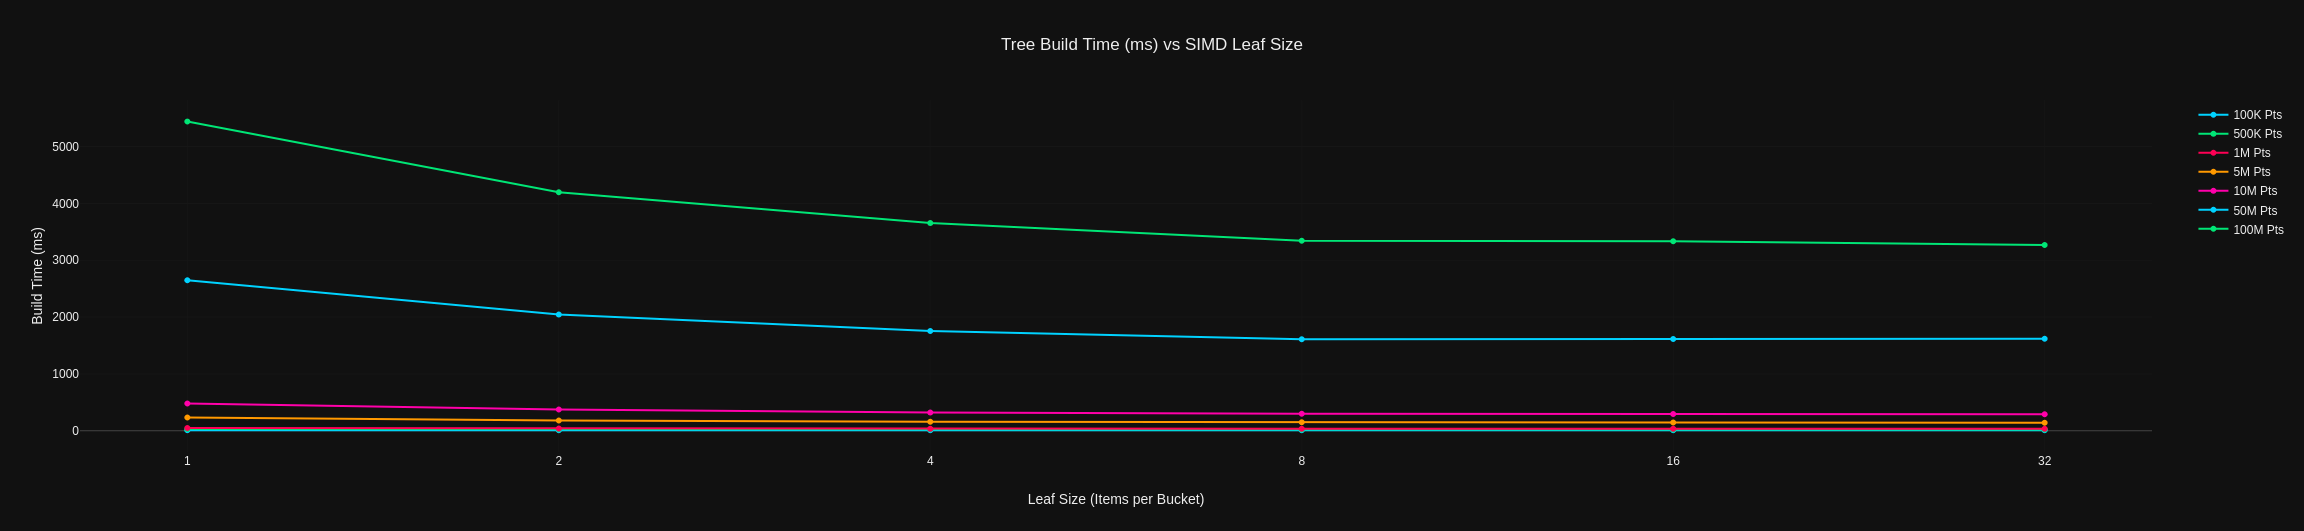
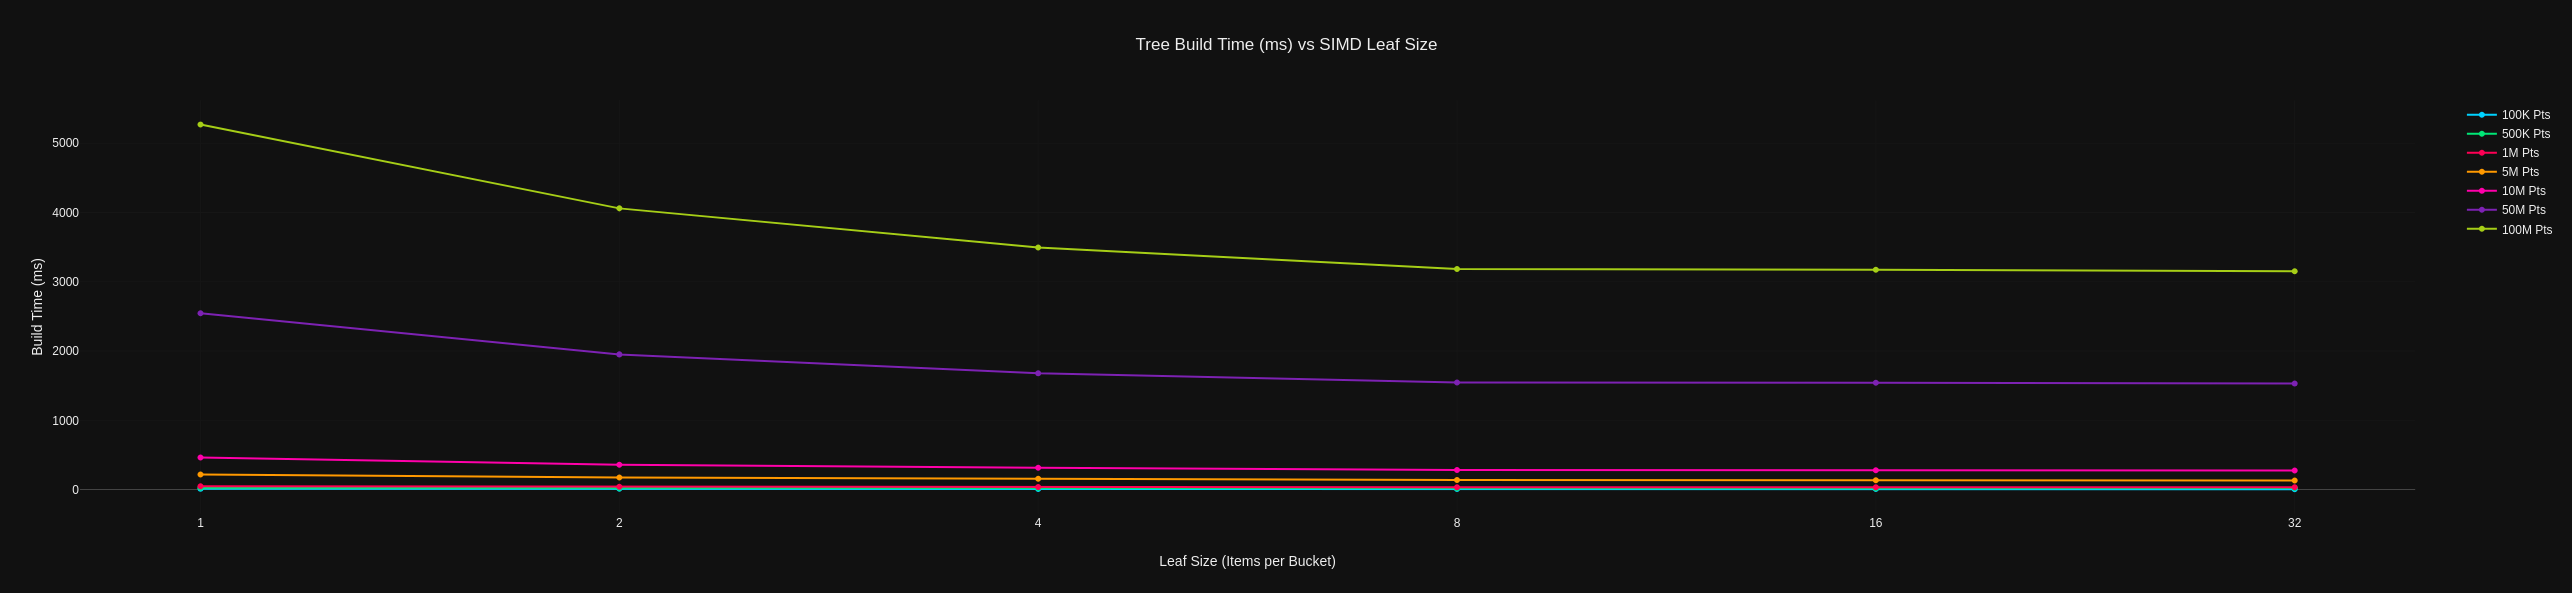
Fixed problem with xmake which prevented SIMD extensions from working. Fixed problem with alignment being handled as max and not min, creating all sorts of problems. Better characterization of optimal bucket size.

diff --git a/examples/render.cpp b/examples/render.cpp
@@ -112,7 +112,7 @@ uniform vec3 root_bmin;
 uniform vec3 root_bmax;
 
 // --- kd3 Config ---
-#define KD3_LEAF_SIZE 16 
+#define KD3_LEAF_SIZE 32 
 #define KD3_MAX_K 8
 #define KD3_STACK_SIZE 128
 #define KD3_INF2 1e29
@@ -120,9 +120,6 @@ uniform vec3 root_bmax;
 #define KD3_BINDING_VALS 1
 #define KD3_BINDING_DIMS 2
 #define KD3_BINDING_BKS  3
-
-#define KD3_A_WORDS (max(16u, uint(KD3_LEAF_SIZE) * 2u))
-#define KD3_BUCKET_WORDS (3u * KD3_A_WORDS)
 
 // --- Structs & Buffers ---
 struct Surfel {
@@ -227,12 +224,12 @@ int main() {
 
     // 2. Build KdTree natively utilizing LeafSize = 8 for 1:1 GLSL SSBO matching
     auto t1 = std::chrono::high_resolution_clock::now();
-    auto tree_expected = kd3::KdTree<16>::build(build_points);
+    auto tree_expected = kd3::KdTree<32>::build(build_points);
     if (!tree_expected) {
         std::cerr << "Failed to build tree! Empty input?\n";
         return 1;
     }
-    kd3::KdTree<16> kdtree = std::move(tree_expected.value());
+    kd3::KdTree<32> kdtree = std::move(tree_expected.value());
     auto t2 = std::chrono::high_resolution_clock::now();
     std::cout << "KdTree Built in: " 
               << std::chrono::duration_cast<std::chrono::milliseconds>(t2 - t1).count() 
@@ -269,7 +266,7 @@ int main() {
     unsigned int surfel_ssbo = rlLoadShaderBuffer(g_surfels.size() * sizeof(GpuSurfel), g_surfels.data(), RL_DYNAMIC_DRAW);
     unsigned int vals_ssbo   = rlLoadShaderBuffer(view.split_vals.size() * sizeof(float), (void*)view.split_vals.data(), RL_DYNAMIC_DRAW);
     unsigned int dims_ssbo   = rlLoadShaderBuffer(view.split_dims.size() * sizeof(uint64_t), (void*)view.split_dims.data(), RL_DYNAMIC_DRAW);
-    unsigned int bks_ssbo    = rlLoadShaderBuffer(view.buckets.size() * sizeof(kd3::LeafBucket<16>), (void*)view.buckets.data(), RL_DYNAMIC_DRAW);
+    unsigned int bks_ssbo    = rlLoadShaderBuffer(view.buckets.size() * sizeof(kd3::LeafBucket<32>), (void*)view.buckets.data(), RL_DYNAMIC_DRAW);
 
     std::vector<Color> fb(W * H);
     Image img = { fb.data(), W, H, 1, PIXELFORMAT_UNCOMPRESSED_R8G8B8A8 };
@@ -373,7 +370,7 @@ int main() {
 
         DrawRectangle(5, 5, 380, 130, Fade(BLACK, 0.8f));
         DrawText(TextFormat("ENGINE: [G] %s", use_gpu ? "GPU Compute (GLSL)" : "CPU Compute (OpenMP)"), 15, 15, 10, ORANGE);
-        DrawText("ACTIVE: kd3::KdTree<16>", 15, 35, 16, GREEN);
+        DrawText("ACTIVE: kd3::KdTree<32>", 15, 35, 16, GREEN);
 
         if (use_gpu) DrawText(TextFormat("GPU Frame Time: %.1f ms (%d FPS)", last_render_ms, GetFPS()), 15, 60, 16, YELLOW);
         else DrawText(TextFormat("CPU Render Time: %.1f ms (%d FPS)", last_render_ms, GetFPS()), 15, 60, 16, YELLOW);

diff --git a/examples/benchmarks.cpp b/examples/benchmarks.cpp
@@ -40,7 +40,7 @@ int main() {
     std::cout << "--- KD-Tree HPC Benchmark --- ["<<SIMD_PARALLELISM<<"]\n";
     
     const size_t N_POINTS = 5'000'000;
-    const size_t N_QUERIES = 10'000;
+    const size_t N_QUERIES = 100'000;
     const size_t K = 10;
 
     std::random_device rd;
@@ -89,23 +89,29 @@ int main() {
     std::cout << "KD-Tree Query Time: " << kd_ms << " ms (" 
               << (N_QUERIES / (kd_ms / 1000.0)) << " QPS)\n";
 
-    // Validation Check (Run 1 query against linear scan to verify correctness)
+    bool correct = true;
+    double linear_ms = 0;
+
     std::cout << "Validating correctness against linear scan...\n";
+
+    for(int i=0;i<N_QUERIES/1000;i++){
+
+    // Validation Check (Run 1 query against linear scan to verify correctness)
     std::array<kd3::KnnResult,K> storage{};
-    auto kd_res = tree.query_knn(queries[0].data(), storage);
+    auto kd_res = tree.query_knn(queries[i%1000].data(), storage);
     
     auto t5 = std::chrono::high_resolution_clock::now();
-    auto brute_res = linear_scan(queries[0].data(), K, points_copy);
+    auto brute_res = linear_scan(queries[i%1000].data(), K, points_copy);
     auto t6 = std::chrono::high_resolution_clock::now();
     
-    double linear_ms = std::chrono::duration<double, std::milli>(t6 - t5).count();
+    linear_ms += std::chrono::duration<double, std::milli>(t6 - t5).count();
     
-    bool correct = true;
     for (size_t i = 0; i < K; ++i) {
         // Due to floating point math eps errors, check ID instead of exact distance match
         if (kd_res[i].payload_id != brute_res[i].payload_id) {
             correct = false;
         }
+    }
     }
 
     if (correct) {
@@ -114,8 +120,8 @@ int main() {
         std::cout << "[FAIL] KD-Tree results differ!\n";
     }
 
-    std::cout << "Single Brute Force Query: " << linear_ms << " ms\n";
-    std::cout << "KD-Tree Speedup vs Brute: " << (linear_ms / (kd_ms / N_QUERIES)) << "x faster per query\n";
+    std::cout << "Single Brute Force Query: " << linear_ms/(N_QUERIES/1000.0) << " ms\n";
+    std::cout << "KD-Tree Speedup vs Brute: " << (linear_ms/(N_QUERIES/1000.0) / (kd_ms / N_QUERIES)) << "x faster per query\n";
 
     return dummy == 0 ? 1 : 0;
 }

diff --git a/include/kd3/query.hpp b/include/kd3/query.hpp
@@ -66,9 +66,9 @@ struct Point {
  */
 template <size_t LeafSize = SIMD_PARALLELISM>
 struct LeafBucket {
-    alignas(std::max<size_t>(64, LeafSize*8)) float x[LeafSize];
-    alignas(std::max<size_t>(64, LeafSize*8)) float y[LeafSize];
-    alignas(std::max<size_t>(64, LeafSize*8)) float z[LeafSize];
+    alignas(std::min<size_t>(64, LeafSize*8)) float x[LeafSize];
+    alignas(std::min<size_t>(64, LeafSize*8)) float y[LeafSize];
+    alignas(std::min<size_t>(64, LeafSize*8)) float z[LeafSize];
     uint32_t ids[LeafSize];
 };
 
@@ -160,7 +160,6 @@ public:
 
                 float dists[LeafSize];
                 
-                #pragma omp simd
                 for (size_t i = 0; i < LeafSize; ++i) {
                     float dx = target[0] - b.x[i];
                     float dy = target[1] - b.y[i];
@@ -246,7 +245,6 @@ public:
 
                 float dists[LeafSize];
                 
-                #pragma omp simd
                 for (size_t i = 0; i < LeafSize; ++i) {
                     float dx = target[0] - b.x[i];
                     float dy = target[1] - b.y[i];

diff --git a/examples/plot.cpp b/examples/plot.cpp
@@ -124,6 +124,9 @@ int main() {
         run_benchmark_for_leaf<8>(N, TRIALS, results);
         run_benchmark_for_leaf<16>(N, TRIALS, results);
         run_benchmark_for_leaf<32>(N, TRIALS, results);
+        run_benchmark_for_leaf<64>(N, TRIALS, results);
+        run_benchmark_for_leaf<128>(N, TRIALS, results);
+        run_benchmark_for_leaf<256>(N, TRIALS, results);
     }
 
     std::ofstream html("kd3_leaf_report.html");

diff --git a/README.md b/README.md
@@ -124,16 +124,16 @@ Make sure you are in release mode to get meaningful results!
 Just for reference, and to calibrate your expectations, benchmarks obtained on my ryzen 5950x
 
 ```
---- KD-Tree HPC Benchmark --- [4]
+--- KD-Tree HPC Benchmark --- [8]
 Generating 5000000 random points...
 Building tree with OpenMP...
-Build Time: 144.695 ms
-Running 10000 queries via KD-Tree...
-KD-Tree Query Time: 17.6458 ms (566707 QPS)
+Build Time: 152.121 ms
+Running 100000 queries via KD-Tree...
+KD-Tree Query Time: 155.507 ms (643058 QPS)
 Validating correctness against linear scan...
 [PASS] KD-Tree results perfectly match brute force.
-Single Brute Force Query: 4.5715 ms
-KD-Tree Speedup vs Brute: 2590.7x faster per query
+Single Brute Force Query: 3.97764 ms
+KD-Tree Speedup vs Brute: 2557.86x faster per query
 ```
 
 and plots!
